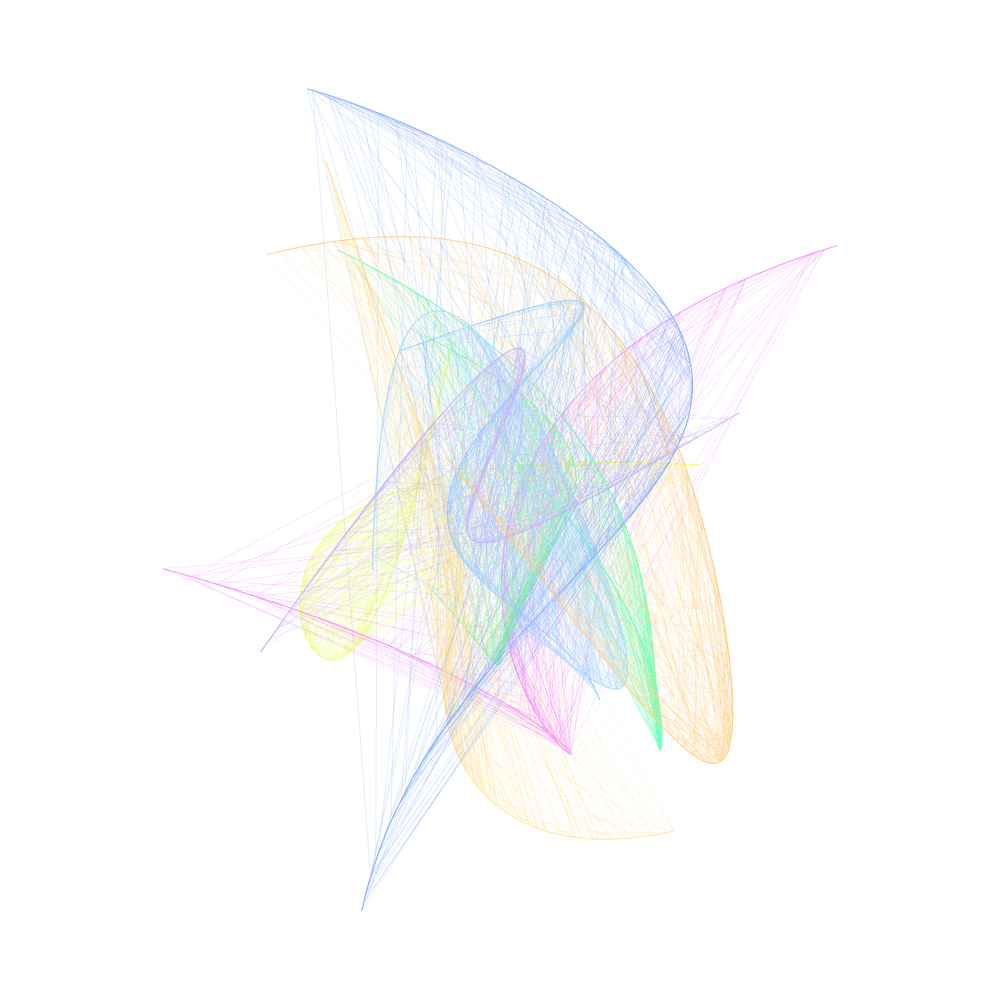
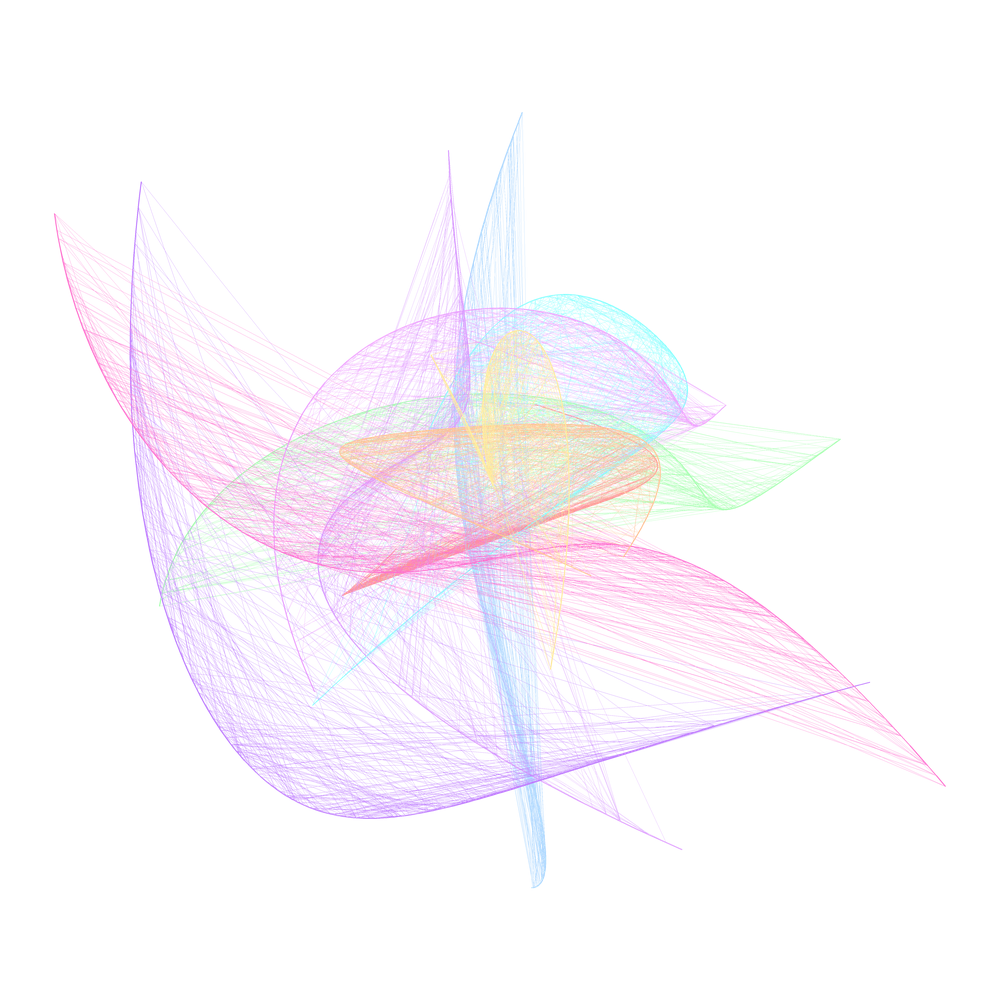
new art type

diff --git a/curves_and_lines.py b/curves_and_lines.py
@@ -1,52 +1,8 @@
 import random
-from tools.bezier import create_curve
 from PIL import Image, ImageDraw
-import numpy as np
-from tools.colors import random_saturated, hsv_to_rgb, add_transparency
-from tools.image_utils import calculate_offset
-
-
-class Curve:
-    """Draws curve."""
-    def __init__(self, points: np.array, accuracy, color, width):
-        self.points = points
-        self.accuracy = accuracy
-        self.color = color
-        self.width = width
-        self.t_points = np.arange(0, 1, accuracy)
-        self.curve = []
-        self.image = None
-
-    def create_curve(self):
-        self.curve = [tuple(i) for i in create_curve(self.t_points, self.points)]
-
-    def offset(self, img):
-        off_x, off_y = calculate_offset(img, self.curve)
-        points = [(self.curve[i][0] + off_x, self.curve[i][1] - off_y) for i in range(len(self.curve))]
-        self.curve = points
-
-    def draw(self, img, centered=False):
-        self.create_curve()
-        self.image = img
-
-        if centered:
-            self.offset(img)
-
-        img_draw = ImageDraw.Draw(img)
-        img_draw.line(self.curve, fill=self.color, width=self.width)
-
-    def draw_points(self, img, centered=False):
-        self.create_curve()
-        self.image = img
-
-        if centered:
-            self.offset(img)
-
-        img_draw = ImageDraw.Draw(img)
-        for point in self.curve:
-            img_draw.rounded_rectangle([point[0] - self.width//2, point[1] - self.width//2,
-                                        point[0] + self.width//2, point[1] + self.width//2],
-                                       radius=100, fill=self.color)
+from tools.colors import random_pastel, hsv_to_rgb, add_transparency
+from classes.curve import Curve
+from tools.image_utils import create_points
 
 
 def generate_art(image, points_num, lines=100, steps=10,):
@@ -54,28 +10,16 @@ def generate_art(image, points_num, lines=100, steps=10,):
     line_width = 1
     accuracy = 0.005
 
-    def create_points():
-        pts = []
-        for _ in range(points_num):
-            pts.append([random.randint(20, image.size[0] - 20), random.randint(20, image.size[0] - 20)])
-        pts = np.array(pts)
-        return pts
-
     curve = Curve(
-        points=create_points(),
+        points=create_points(image, points_num),
         accuracy=accuracy,
-        color=hsv_to_rgb(*random_saturated()),
+        color=hsv_to_rgb(*random_pastel()),
         width=width)
 
-    curves = []
-    hue = random.randint(0, 100) / 100
     for _ in range(steps):
-        curve.points = create_points()
-
-        # more pastel color
-        curve.color = hsv_to_rgb(h=random.randint(0, 100)/100, s=random.randint(30, 60)/100, v=1)
-        # curve.color = hsv_to_rgb(*random_saturated(hue=hue))
-        # curve.color = add_transparency(curve.color, random.randint(0, 100) / 100)
+        curve.points = create_points(image, points_num)
+        curve.color = hsv_to_rgb(*random_pastel())
+        curve.create_curve()
 
         curve.draw(image, centered=True)
 
@@ -85,16 +29,16 @@ def generate_art(image, points_num, lines=100, steps=10,):
 
         draw = ImageDraw.Draw(curve.image)
         draw.line(lines_list, fill=curve.color, width=line_width)
-        image = curve.image
-        curves.append(curve.curve)
 
-    return curves
+        image = Image.alpha_composite(image, curve.image)
+
+    return image
 
 
 if __name__ == '__main__':
     size = 5000
     my_img = Image.new('RGBA', (size, size), (0, 0, 0, 0))
     # 5, 300, 10 - probably the best
-    generate_art(my_img, points_num=5, lines=300, steps=10)
+    my_img = generate_art(my_img, points_num=5, lines=300, steps=10)
     my_img = my_img.resize((size//5, size//5), resample=Image.ANTIALIAS)
     my_img.save('images/curve.png')

diff --git a/classes/curve.py b/classes/curve.py
@@ -1,0 +1,47 @@
+from tools.bezier import create_curve
+import numpy as np
+from tools.image_utils import calculate_offset
+from PIL import ImageDraw
+
+
+class Curve:
+    """Draws curve."""
+    def __init__(self, points: np.array, accuracy, color, width):
+        self.points = points
+        self.accuracy = accuracy
+        self.color = color
+        self.width = width
+        self.t_points = np.arange(0, 1, accuracy)
+        self.curve = []
+        self.image = None
+
+    def create_curve(self):
+        curve = [tuple(i) for i in create_curve(self.t_points, self.points)]
+        self.curve = curve
+        return curve
+
+    def offset(self, img):
+        off_x, off_y = calculate_offset(img, self.curve)
+        points = [(self.curve[i][0] + off_x, self.curve[i][1] - off_y) for i in range(len(self.curve))]
+        self.curve = points
+
+    def draw(self, img, centered=False):
+        self.image = img
+
+        if centered:
+            self.offset(img)
+
+        img_draw = ImageDraw.Draw(img)
+        img_draw.line(self.curve, fill=self.color, width=self.width)
+
+    def draw_points(self, img, centered=False):
+        self.image = img
+
+        if centered:
+            self.offset(img)
+
+        img_draw = ImageDraw.Draw(img)
+        for point in self.curve:
+            img_draw.rounded_rectangle([point[0] - self.width//2, point[1] - self.width//2,
+                                        point[0] + self.width//2, point[1] + self.width//2],
+                                       radius=100, fill=self.color)

diff --git a/in_a_shape.py b/in_a_shape.py
@@ -1,0 +1,41 @@
+import random
+from PIL import Image, ImageDraw
+from tools.colors import random_pastel, hsv_to_rgb, add_transparency
+from classes.curve import Curve
+from tools.image_utils import create_points
+
+
+def generate_art(image, points_num, steps=1):
+    acc = 0.005
+    width = 5
+
+    curve = Curve(
+        points=create_points(image, points_num),
+        accuracy=acc,
+        color=hsv_to_rgb(*random_pastel()),
+        width=width
+    )
+
+    for _ in range(steps):
+
+        curve.points = create_points(image, points_num)
+        points = curve.create_curve()
+
+        new_img = Image.new('RGBA', image.size, (0, 0, 0, 0))
+        new_draw = ImageDraw.Draw(new_img)
+
+        color = hsv_to_rgb(*random_pastel())
+        polygon_color = add_transparency(color, random.randint(10, 50)/100)
+        new_draw.polygon(points, fill=polygon_color)
+
+        image = Image.alpha_composite(image, new_img)
+
+    return image
+
+
+if __name__ == '__main__':
+    size = 2000
+    img = Image.new('RGBA', (size, size), (0, 0, 0, 0))
+    img = generate_art(img, points_num=5, steps=20)
+    img = img.resize((size//2, size//2), resample=Image.ANTIALIAS)
+    img.save('images/shape.png')

diff --git a/tools/image_utils.py b/tools/image_utils.py
@@ -1,3 +1,5 @@
+import random
+import numpy as np
 
 
 def calculate_offset(image, points):
@@ -15,3 +17,11 @@ def calculate_offset(image, points):
     offset_y = (y_min - height + y_max) / 2
 
     return offset_x, offset_y
+
+
+def create_points(image, points_num):
+    pts = []
+    for _ in range(points_num):
+        pts.append([random.randint(20, image.size[0] - 20), random.randint(20, image.size[0] - 20)])
+    pts = np.array(pts)
+    return pts

diff --git a/tools/colors.py b/tools/colors.py
@@ -31,6 +31,17 @@ def random_saturated(hue=None):
     )
 
 
+def random_pastel():
+    hue = random.randint(0, 100) / 100
+    saturation = random.randint(30, 60) / 100
+
+    return (
+        hue,
+        saturation,
+        1
+    )
+
+
 def hsv_to_rgb(h, s, v):
     rgb = colorsys.hsv_to_rgb(h, s, v)
     return (
